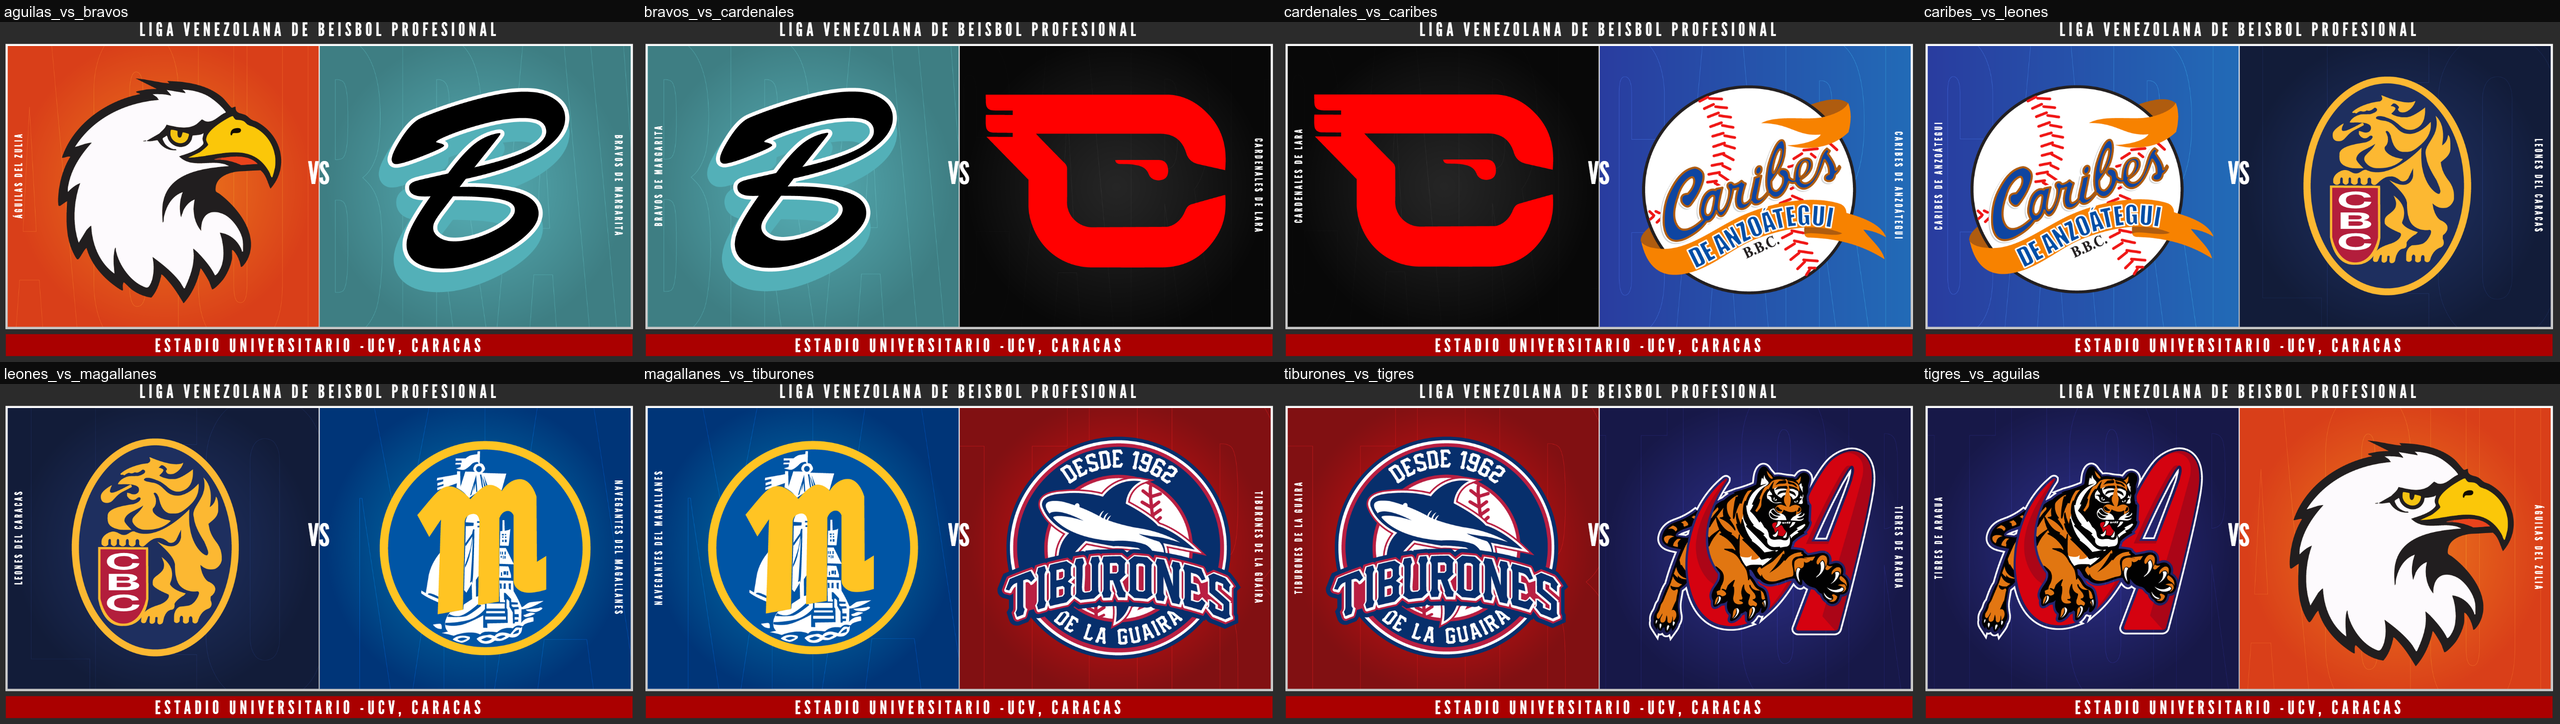
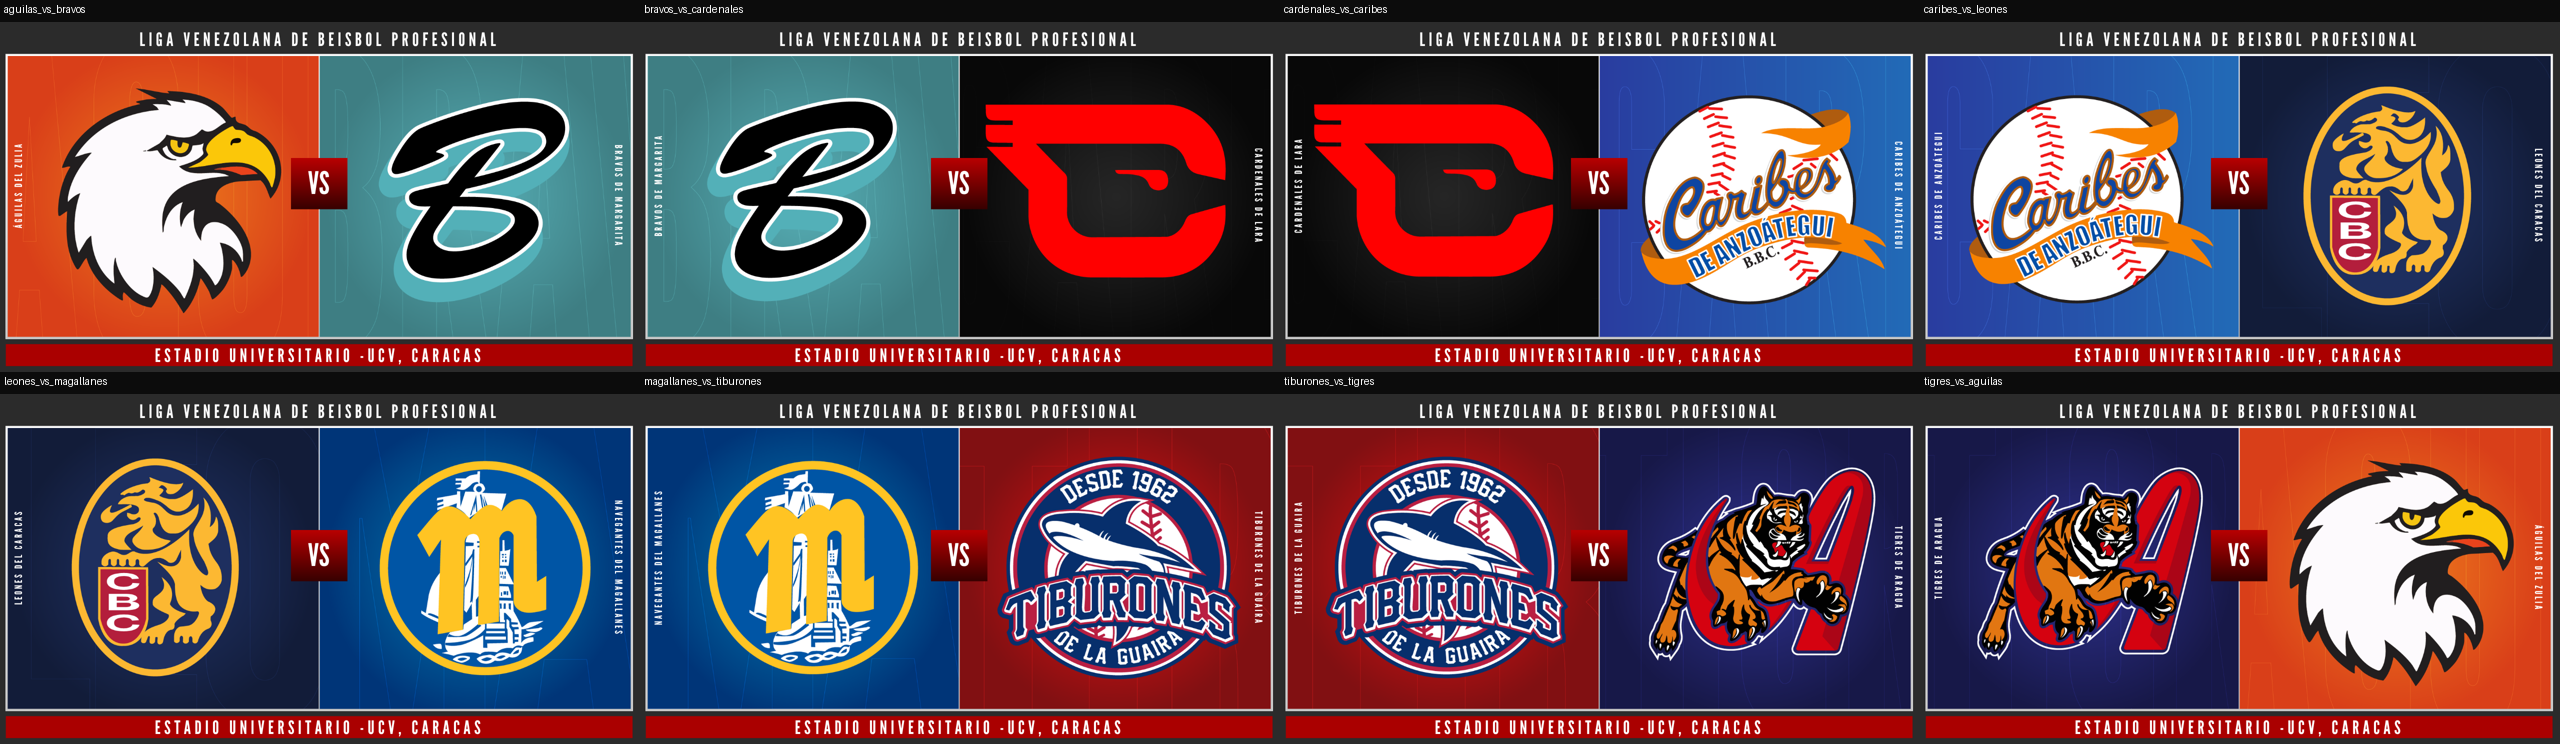
Placa de juego: la caja del VS, como en el duelo
placa_juego trae las mismas dos capas sin trazado que el duelo
(base animada 6 y 7). Con el trazado de base animada aparecen la caja
roja que sube con el logo y la del VS, que termina entre los escudos.
Pedido de Leon, sin captura de AE de la placa: va como en el duelo.

trazadoDeLaCaja() pasa a la parte compartida de prep.js y la usa
también la receta de la placa. El data.json publicado lleva el mismo
cambio (sólo agrega los dos trazados). Probado con los 8 equipos, el
ciclo de vida y en CasparCG 2.5.1 (suelta el layer); capturas nuevas.

Claude-Session: https://claude.ai/code/session_01Wm8ZD4SvP9sj1RgzQfy8KL

diff --git a/herramientas/prep.js b/herramientas/prep.js
@@ -645,6 +645,18 @@ function unLogo(d, nombre, ind) {
     Object.assign(logo, { nm: '.logomeridiano', cl: 'logomeridiano' });
     enLaCaja(d, logo, ind);
 }
+// En la placa y en el duelo, base animada 6 y 7 son copias de base animada (la caja roja del título)
+// y llegan sin el trazado de su grupo (np 3, pero sólo el degradado y el transform): en AE
+// seguramente lo toman de la original con una expresión, que el export no lleva. La 7 es la caja del
+// VS (en la comp de AE del duelo se ve); la 6, el mate de base animada 5, la caja roja que sube con el
+// logo (30–44): con el mate vacío no se veía. Las dos quedan con el trazado de base animada.
+function trazadoDeLaCaja(d, nombre, nm) {
+    const grupo = l => l.shapes.find(g => g.nm === 'Group 2');
+    const fuente = grupo(layer(d, 'base animada')), g = grupo(layer(d, nm));
+    const tr = gr => JSON.stringify(['p', 'a', 's'].map(k => gr.it.find(i => i.ty === 'tr')[k].k));
+    if (!g || g.np !== 3 || g.it.some(i => i.ty === 'sh') || tr(g) !== tr(fuente)) throw new Error(`${nombre}: ${nm} no es la copia esperada`);
+    g.it.unshift(clone(fuente.it.find(i => i.ty === 'sh')));
+}
 // El rectángulo (rc) de una capa de forma con un solo grupo, en la pantalla: [x0, y0, x1, y1]
 function rectDeForma(capa) {
     const g = capa.shapes[0], rc = g.it.find(i => i.ty === 'rc'), tr = g.it.find(i => i.ty === 'tr');
@@ -728,6 +740,10 @@ if (hay('placa de juego')) {
     // JUEGO DE HOY sube con su caja roja (10–38): la caja sale recortada por el borde de arriba y el
     // texto seguía de largo sobre el fondo (18–30).
     enLaCaja(d, rename(d, 'juego de hoy', 'titulo'), 21);
+    // La caja que sube con el logo y termina en la del VS, como en el duelo. De la placa no hay
+    // captura de AE: se aplicó igual (Leon, 2026-10-24).
+    trazadoDeLaCaja(d, 'placa', 'base animada 6');
+    trazadoDeLaCaja(d, 'placa', 'base animada 7');
 
     // El export trae start (0–30) y un stop del 90 al 121 sin animación.
     d.markers = [
@@ -780,18 +796,6 @@ function fotos(d) {
         refs.add(img.refId);
     }
     if (refs.size !== 1) throw new Error('duelo: las fotos ya no comparten el asset');
-}
-// base animada 6 y 7 son copias de base animada (la caja roja de EL DUELO) y llegan sin el trazado de
-// su grupo (np 3, pero sólo el degradado y el transform): en AE seguramente lo toman de la original
-// con una expresión, que el export no lleva. La 7 es la caja del VS (en la comp de AE se ve); la 6,
-// el mate de base animada 5, la caja roja que sube con el logo (30–44): con el mate vacío no se
-// veía. Las dos quedan con el trazado de base animada.
-function trazadoDeLaCaja(d, nm) {
-    const grupo = l => l.shapes.find(g => g.nm === 'Group 2');
-    const fuente = grupo(layer(d, 'base animada')), g = grupo(layer(d, nm));
-    const tr = gr => JSON.stringify(['p', 'a', 's'].map(k => gr.it.find(i => i.ty === 'tr')[k].k));
-    if (!g || g.np !== 3 || g.it.some(i => i.ty === 'sh') || tr(g) !== tr(fuente)) throw new Error(`duelo: ${nm} no es la copia esperada`);
-    g.it.unshift(clone(fuente.it.find(i => i.ty === 'sh')));
 }
 // Los colores de la comp de AE (la captura que mandó Leon el 2026-10-24: así se tiene que ver). El
 // export trae la tabla roja, con los números gris oscuro casi sin leerse, y la columna del centro y
@@ -903,8 +907,8 @@ if (hay('duelo de lanzadores')) {
         rename(d, '.' + local, `valorlocal${n + 1}`);
     });
 
-    trazadoDeLaCaja(d, 'base animada 6');
-    trazadoDeLaCaja(d, 'base animada 7');
+    trazadoDeLaCaja(d, 'duelo', 'base animada 6');
+    trazadoDeLaCaja(d, 'duelo', 'base animada 7');
     const blanco = tabla.shapes.find(g => g.nm === 'Group 2').it.find(i => i.ty === 'gf');
     if (blanco.g.p !== 3 || blanco.s.k[1] >= blanco.e.k[1]) throw new Error('duelo: el degradado de la tabla no va de arriba abajo');
     blanco.g.k.k = BLANCO_PLACA.slice();

diff --git a/CLAUDE.md b/CLAUDE.md
@@ -20,7 +20,7 @@ Las keys del UPDATE de cada uno están en su `data.md`.
 | `parcial/` | Score de fin de inning: escudos, C H E de los dos equipos, inning con su flecha, los tres bateadores del próximo inning y la publicidad (`publicidad`, una imagen). Abajo al centro, a la izquierda del score | stage `play` pause (0–32) | `salida`: la entrada al revés (1,1 s) |
 | `prevenido/` | El bateador en el círculo: una fila (nombre y valor) y la publicidad a la derecha (`publicidad`, una imagen). El mismo armado que `3enlinea`, en el mismo lugar | stage `play` pause (0–48) | `salida`: la entrada al revés (1,6 s) |
 | `final/` | Score final (line score): escudos, carreras por inning (la columna 9 es la del último inning), C H E y, abajo, ganador, perdedor y MVP; esa barra se apaga con `barra_opacidad` para usarlo a mitad de juego. Abajo al centro, en el lugar de `parcial` | stage `play` pause (0–33) | `salida`: la entrada al revés (1,1 s) |
-| `placa_juego/` | JUEGO DE HOY, **versión preliminar**: la placa de pantalla completa antes del juego, con los dos escudos y nombres, la liga arriba y el estadio abajo. Trae MAGALLANES y TIBURONES en el diseño (el juego del 2026-10-13); los escudos son imágenes (`escudovisita`/`escudolocal`), cada una la mitad entera de la caja (fondo del equipo, marca de agua y escudo, 465 × 419), y en `images/` están los ocho como `<equipo>.png` (`aguilas`, `bravos`, `cardenales`, `caribes`, `leones`, `magallanes`, `tiburones`, `tigres`); `img_1`/`img_0`, las rutas de v0.0.17, quedan como copia de Magallanes y Tiburones | stage `play` pause (0–74) | `salida`: la entrada al revés (2,5 s) |
+| `placa_juego/` | JUEGO DE HOY, **versión preliminar**: la placa de pantalla completa antes del juego, con los dos escudos y nombres, la liga arriba y el estadio abajo. Trae MAGALLANES y TIBURONES en el diseño (el juego del 2026-10-13); los escudos son imágenes (`escudovisita`/`escudolocal`), cada una la mitad entera de la caja (fondo del equipo, marca de agua y escudo, 465 × 419), y en `images/` están los ocho como `<equipo>.png` (`aguilas`, `bravos`, `cardenales`, `caribes`, `leones`, `magallanes`, `tiburones`, `tigres`); `img_1`/`img_0`, las rutas de v0.0.17, quedan como copia de Magallanes y Tiburones. El VS va en una caja roja, como en `duelo_lanzadores` | stage `play` pause (0–74) | `salida`: la entrada al revés (2,5 s) |
 | `duelo_lanzadores/` | EL DUELO, el vs de lanzadores: armado sobre la placa de juego (la misma caja, el título que sube y las medias placas como escudos, `escudovisita`/`escudolocal` con los mismos ocho `<equipo>.png`, entintados de azul), con la foto de cada lanzador delante de su escudo (`fotolanzadorvisita`/`fotolanzadorlocal`, por defecto transparentes), el VS en una caja roja, la barra de los nombres y abajo la tabla blanca de 5 estadísticas (visita a la izquierda, local a la derecha, rótulos en la columna roja del centro). Al centro, gráfico solo | stage `play` pause (0–75) | `salida`: la entrada al revés (2,5 s) |
 
 Cómo se ve cada uno, en [capturas/](capturas/): `<gráfico>.png` es la pantalla completa con data de
@@ -32,7 +32,7 @@ y `duelo_lanzadores` muestran los ocho de visita y de local, en cruces de a uno)
 `3enlinea_publicidad.png` del 2026-10-06 y `3enlinea.png` del 2026-10-24, con la publicidad por
 defecto; las de
 `prevenido`, del 2026-10-07; las de `final`, del 2026-10-10; las de `placa_juego`, del
-2026-10-14; las de `parcial`, `parcial_equipos.png` del 2026-10-07 y `parcial.png` del 2026-10-21,
+2026-10-24, con la caja del VS; las de `parcial`, `parcial_equipos.png` del 2026-10-07 y `parcial.png` del 2026-10-21,
 con la publicidad por defecto; las de `duelo_lanzadores`, del 2026-10-24, con la foto de ejemplo en
 `duelo_lanzadores.png`): si un
 gráfico cambia, hay que regenerarlas. No entran al zip (`.gitattributes`).
@@ -175,8 +175,8 @@ Cada export de AE trae los nombres crudos y hay que repetir la preparación. Bus
   la comp de AE se ve; la 6, el mate de `base animada 5`, la caja que sube con el logo (30–44). Sin
   trazado no se veían; `trazadoDeLaCaja()` en `prep.js` les copia el de `base animada`. Con eso la
   caja roja sube con el logo, se angosta hasta ser una barra al centro y termina en la caja del VS.
-  `placa_juego` trae las mismas dos capas sin trazado, y ahí no se tocó: no hay captura de AE que
-  diga cómo va (el video del diseñador es otra revisión).
+  `placa_juego` trae las mismas dos capas sin trazado y lleva el mismo arreglo (pedido de Leon,
+  2026-10-24, sin captura de AE de la placa: se da por hecho que va como en el duelo).
 - **Tinte:** los escudos de `duelo_lanzadores` llevan el efecto Tint de AE (Map Black/White a dos
   azules, Amount 0 → 61 del 55 al 74). El filtro de Lottie no lo dibuja como AE: además del color del
   tinte le suma la luminancia en gris, y los escudos salían grises (Magallanes 42 59 92 en vez del 9

diff --git a/duelo_lanzadores/data.md b/duelo_lanzadores/data.md
@@ -107,7 +107,7 @@ design size, `INNINGS LANZADOS` goes to 43); a value, about 6 (`100-200` goes fr
 | `etiqueta4` / `valorvisita4` / `valorlocal4` | WHIP / 1.09 / 1.09 |
 | `etiqueta5` / `valorvisita5` / `valorlocal5` | ERA / 1.80 / 1.80 |
 | `titulo` | EL DUELO (only during the entry: the red box that opens the card and leaves upwards, frames 0–30) |
-| `vs` | VS (between the crests; no need to send it) |
+| `vs` | VS (in a small red box between the crests; no need to send it) |
 
 ## Image layers
 

diff --git a/placa_juego/data.md b/placa_juego/data.md
@@ -78,7 +78,7 @@ text in the width of the card; longer overflows it.
 | `estadio` | ESTADIO UNIVERSITARIO -UCV, CARACAS (the red bar below the card) |
 | `equipovisita` | NAVEGANTES DEL MAGALLANES (vertical, left edge) |
 | `equipolocal` | TIBURONES DE LA GUAIRA (vertical, right edge) |
-| `vs` | VS (between the crests; no need to send it) |
+| `vs` | VS (in a small red box between the crests; no need to send it) |
 
 ## Image layers
 
